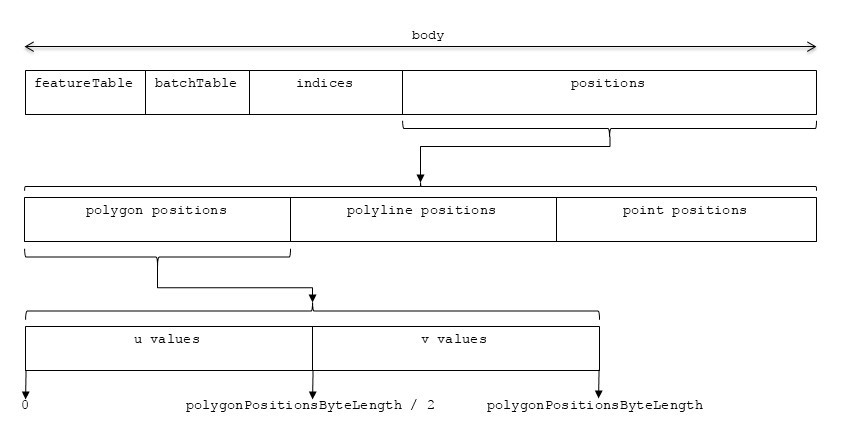
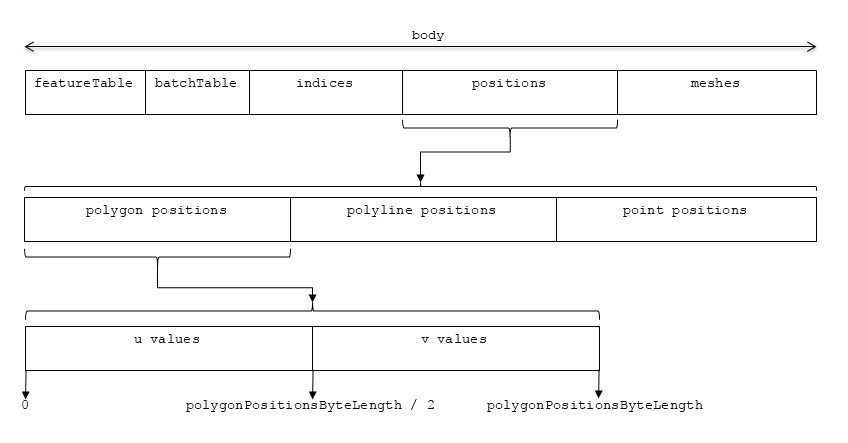
Update figures.

diff --git a/TileFormats/VectorData/README.md b/TileFormats/VectorData/README.md
@@ -219,6 +219,10 @@ Each `u, v, height` triple is a single point.
 
 ### Meshes
 
+**Figure 6**: Mesh layout
+
+![](figures/mesh.jpg)
+
 The indices are a buffer of `uint32` values. The indices for each mesh must be contiguous in the buffer. For example, the first mesh would have indices starting at the byte offset given by the first element in `MESH_INDEX_OFFSETS` and end after the first element in `MESH_INDEX_COUNTS`. After the indices is a `float32[]` containing positions of tall of the meshes. The number of positions in the buffer is given by `MESH_POSITION_COUNT`. Unlike polygons, there are no restrictions on where a mesh can index into the position buffer.
 
 ## File Extension
